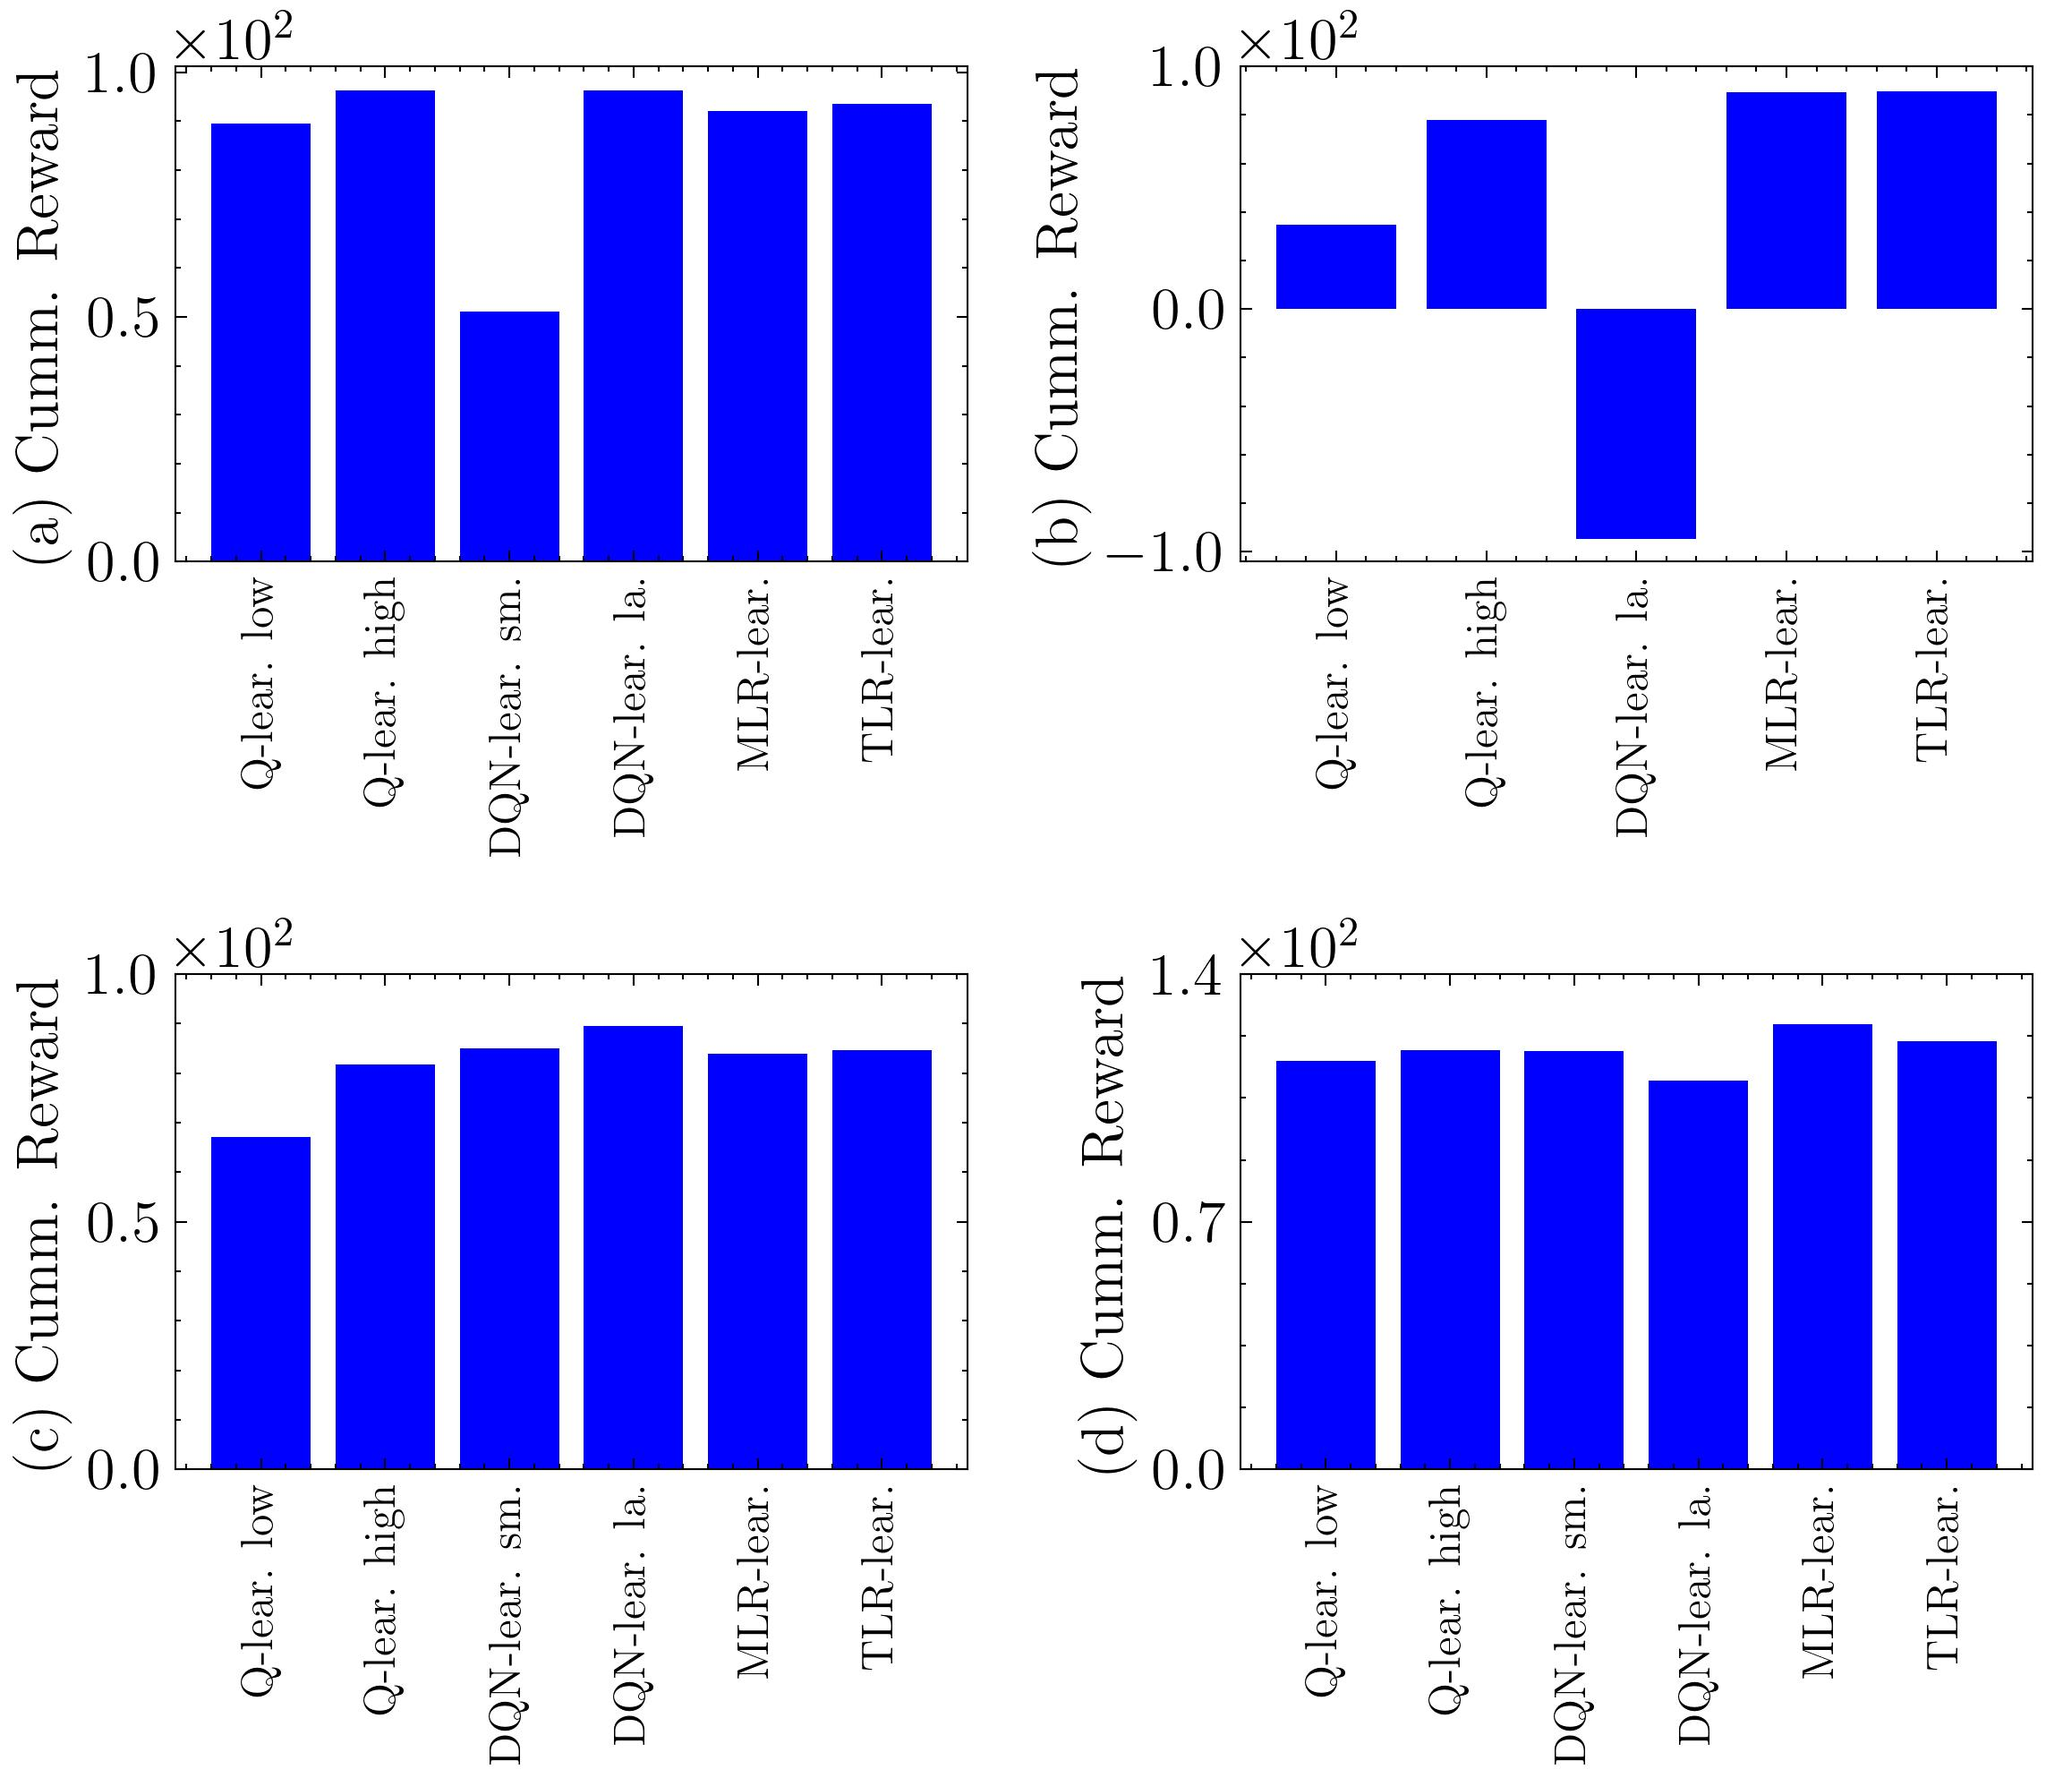
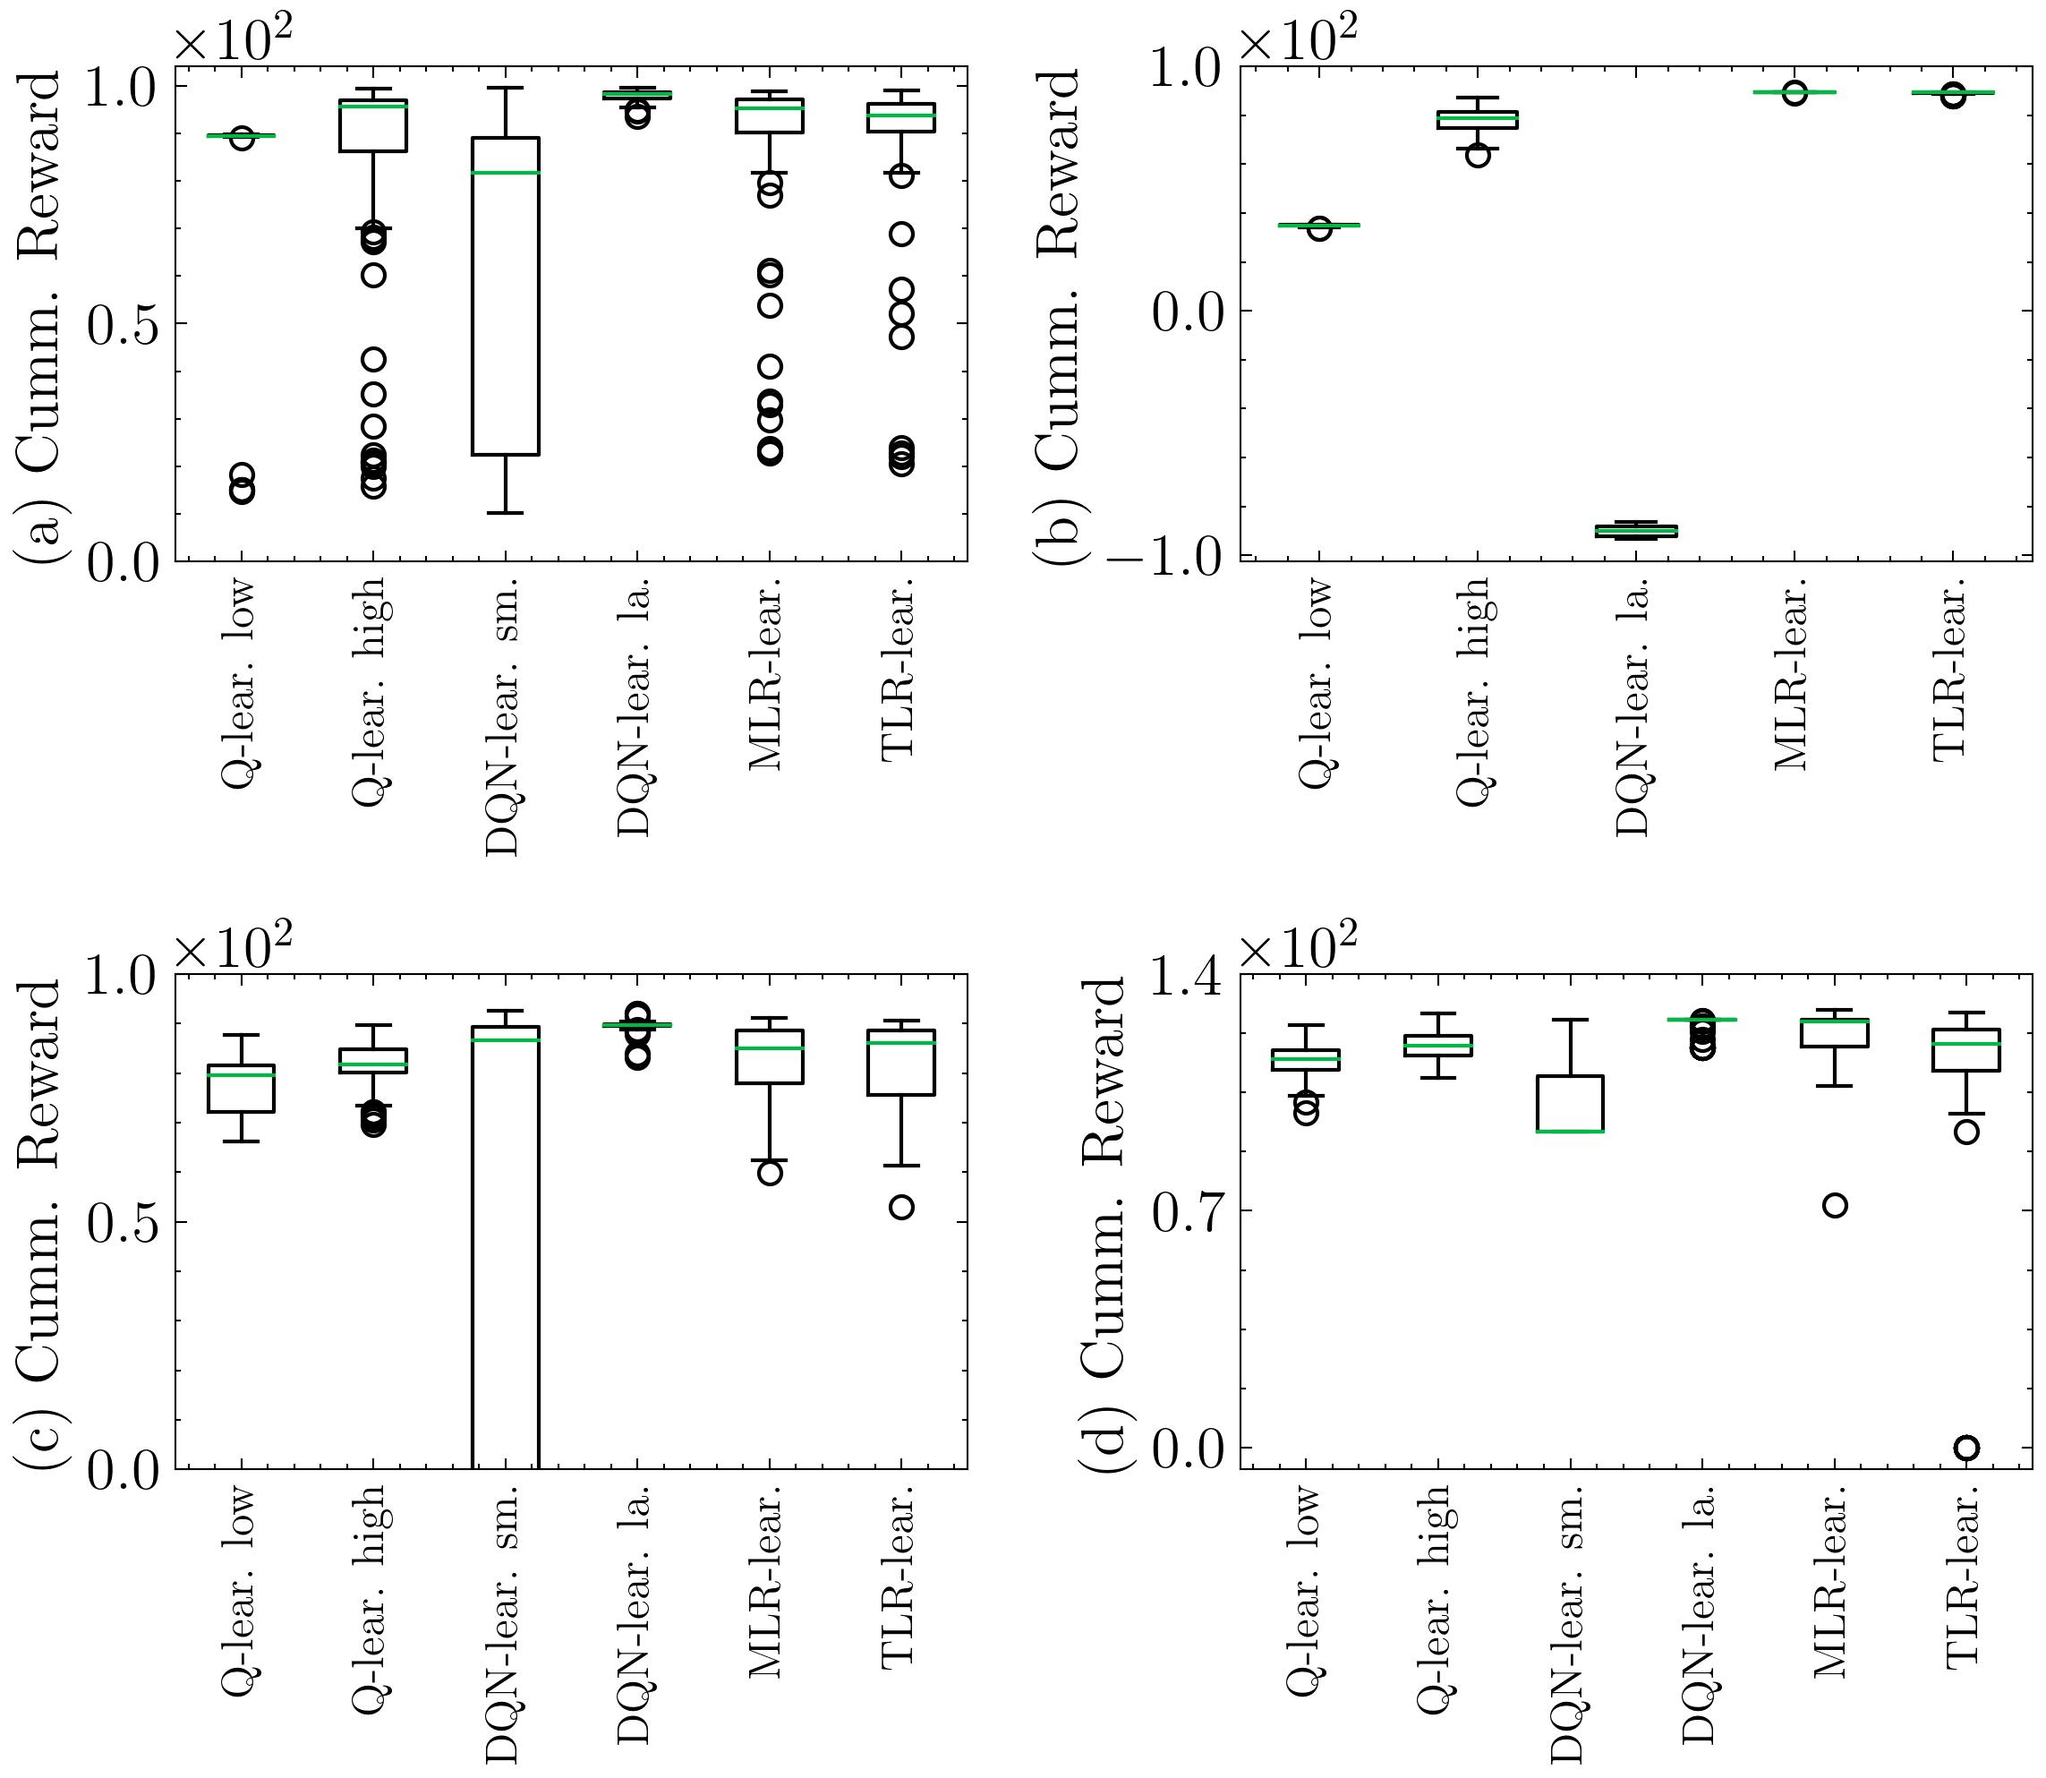
feature: changes in plots

diff --git a/5_exp_methods_comparison.py b/5_exp_methods_comparison.py
@@ -80,49 +80,52 @@ if __name__ == "__main__":
         axes = axes.flatten()
 
         prefix = 'results/pendulum_'
-        axes[0].plot(json.load(open(prefix + 'q_learning_low.json', 'r'))['steps'], color='b')
-        axes[0].plot(json.load(open(prefix + 'q_learning_high.json', 'r'))['steps'], color='r')
-        axes[0].plot(json.load(open(prefix + 'dqn_learning_small_sample.json', 'r'))['steps'], color='orange')
-        axes[0].plot(json.load(open(prefix + 'dqn_learning_large_sample.json', 'r'))['steps'], color='k', )
-        axes[0].plot(json.load(open(prefix + 'mlr_learning.json', 'r'))['steps'], color='g')
-        axes[0].plot(json.load(open(prefix + 'tlr_learning.json', 'r'))['steps'], color='y')
+        steps = range(0, 15000, 10)
+        axes[0].plot(steps, json.load(open(prefix + 'q_learning_low.json', 'r'))['steps'], color='b')
+        axes[0].plot(steps, json.load(open(prefix + 'q_learning_high.json', 'r'))['steps'], color='r')
+        axes[0].plot(steps, json.load(open(prefix + 'dqn_learning_small_sample.json', 'r'))['steps'], color='orange')
+        axes[0].plot(steps, json.load(open(prefix + 'dqn_learning_large_sample.json', 'r'))['steps'], color='k', )
+        axes[0].plot(steps, json.load(open(prefix + 'mlr_learning.json', 'r'))['steps'], color='g')
+        axes[0].plot(steps, json.load(open(prefix + 'tlr_learning.json', 'r'))['steps'], color='y')
         axes[0].set_xlabel("Episodes", labelpad=4)
         axes[0].set_ylabel("(a) $\#$ Steps")
-        axes[0].set_xlim(0, 10000)
+        axes[0].set_xlim(0, 15000)
         axes[0].set_yticks([0, 50, 100])
-        axes[0].set_xticks([0, 5000, 10000])
+        axes[0].set_xticks([0, 7500, 15000])
         axes[0].yaxis.set_major_formatter(OOMFormatter(2, "%1.1f"))
         axes[0].ticklabel_format(style = 'sci', axis='y', scilimits=(0,0))
         axes[0].legend(labels, fontsize=12, loc='upper right')
         axes[0].grid()
 
         prefix = 'results/cartpole_'
-        axes[1].plot(json.load(open(prefix + 'q_learning_low.json', 'r'))['steps'], color='b')
-        axes[1].plot(json.load(open(prefix + 'q_learning_high.json', 'r'))['steps'], color='r')
-        axes[1].plot(json.load(open(prefix + 'dqn_learning_large_sample.json', 'r'))['steps'], color='k')
-        axes[1].plot(json.load(open(prefix + 'mlr_learning.json', 'r'))['steps'], color='g')
-        axes[1].plot(json.load(open(prefix + 'tlr_learning.json', 'r'))['steps'], color='y')
+        steps = range(0, 40000, 10)
+        axes[1].plot(steps, json.load(open(prefix + 'q_learning_low.json', 'r'))['steps'], color='b')
+        axes[1].plot(steps, json.load(open(prefix + 'q_learning_high.json', 'r'))['steps'], color='r')
+        axes[1].plot(steps, json.load(open(prefix + 'dqn_learning_large_sample.json', 'r'))['steps'], color='k')
+        axes[1].plot(steps, json.load(open(prefix + 'mlr_learning.json', 'r'))['steps'], color='g')
+        axes[1].plot(steps, json.load(open(prefix + 'tlr_learning.json', 'r'))['steps'], color='y')
         axes[1].set_xlabel("Episodes", labelpad=4)
         axes[1].set_ylabel("(b) $\#$ Steps")
         axes[1].set_yticks([0, 50, 100])
         axes[1].set_xticks([0, 20000, 40000])
         axes[1].yaxis.set_major_formatter(OOMFormatter(2, "%1.1f"))
         axes[1].ticklabel_format(style = 'sci', axis='y', scilimits=(0,0))
-        axes[1].set_xlim(0, 40000)
+        axes[1].set_xlim(4000, 40000)
         axes[1].legend([l for l in labels if 'sm.' not in l], fontsize=12, loc='lower right')
         axes[1].grid()
 
         prefix = 'results/mountaincar_'
-        axes[2].plot(json.load(open(prefix + 'q_learning_low.json', 'r'))['steps'], color='b')
-        axes[2].plot(json.load(open(prefix + 'q_learning_high.json', 'r'))['steps'], color='r')
-        axes[2].plot(json.load(open(prefix + 'dqn_learning_small_sample.json', 'r'))['steps'], color='orange')
-        axes[2].plot(json.load(open(prefix + 'dqn_learning_large_sample.json', 'r'))['steps'], color='k')
-        axes[2].plot(json.load(open(prefix + 'mlr_learning.json', 'r'))['steps'], color='g')
-        axes[2].plot(json.load(open(prefix + 'tlr_learning.json', 'r'))['steps'], color='y')
+        steps = range(0, 5000, 10)
+        axes[2].plot(steps, json.load(open(prefix + 'q_learning_low.json', 'r'))['steps'], color='b')
+        axes[2].plot(steps, json.load(open(prefix + 'q_learning_high.json', 'r'))['steps'], color='r')
+        axes[2].plot(steps, json.load(open(prefix + 'dqn_learning_small_sample.json', 'r'))['steps'], color='orange')
+        axes[2].plot(steps, json.load(open(prefix + 'dqn_learning_large_sample.json', 'r'))['steps'], color='k')
+        axes[2].plot(steps, json.load(open(prefix + 'mlr_learning.json', 'r'))['steps'], color='g')
+        axes[2].plot(steps, json.load(open(prefix + 'tlr_learning.json', 'r'))['steps'], color='y')
         axes[2].set_xlabel("Episodes", labelpad=4)
         axes[2].set_ylabel("(c) $\#$ Steps")
         axes[2].set_yticks([0, 5000, 10000])
-        axes[2].set_xticks([0, 2500, 5000])
+        axes[2].set_xticks([2500, 5000])
         axes[2].yaxis.set_major_formatter(OOMFormatter(4, "%1.1f"))
         axes[2].ticklabel_format(style = 'sci', axis='y', scilimits=(0,0))
         axes[2].set_xlim(0, 5000)
@@ -130,19 +133,19 @@ if __name__ == "__main__":
         axes[2].grid()
 
         prefix = 'results/rocket_'
-        axes[3].plot(json.load(open(prefix + 'q_learning_low.json', 'r'))['steps'], color='b')
-        axes[3].plot(json.load(open(prefix + 'q_learning_high.json', 'r'))['steps'], color='r')
-        axes[3].plot(json.load(open(prefix + 'dqn_learning_small_sample.json', 'r'))['steps'], color='orange')
-        axes[3].plot(json.load(open(prefix + 'dqn_learning_large_sample.json', 'r'))['steps'], color='k')
-        axes[3].plot(json.load(open(prefix + 'mlr_learning.json', 'r'))['steps'], color='g')
-        axes[3].plot(json.load(open(prefix + 'tlr_learning.json', 'r'))['steps'], color='y')
+        steps = range(0, 1000000, 10)
+        axes[3].plot(steps, json.load(open(prefix + 'q_learning_low.json', 'r'))['steps'], color='b')
+        axes[3].plot(steps, json.load(open(prefix + 'q_learning_high.json', 'r'))['steps'], color='r')
+        axes[3].plot(steps, json.load(open(prefix + 'dqn_learning_small_sample.json', 'r'))['steps'], color='orange')
+        axes[3].plot(steps, json.load(open(prefix + 'dqn_learning_large_sample.json', 'r'))['steps'], color='k')
+        axes[3].plot(steps, json.load(open(prefix + 'mlr_learning.json', 'r'))['steps'], color='g')
+        axes[3].plot(steps, json.load(open(prefix + 'tlr_learning.json', 'r'))['steps'], color='y')
         axes[3].set_xlabel("Episodes", labelpad=4)
         axes[3].set_ylabel("(d) $\#$ Steps")
-        axes[3].set_yticks([200, 350, 500])
+        axes[3].set_yticks([0, 500, 1000])
         axes[3].set_xticks([0, 250000, 500000])
-        axes[3].yaxis.set_major_formatter(OOMFormatter(2, "%1.1f"))
+        axes[3].yaxis.set_major_formatter(OOMFormatter(3, "%1.1f"))
         axes[3].ticklabel_format(style = 'sci', axis='y', scilimits=(0,0))
-        axes[3].set_ylim(180, 520)
         axes[3].set_xlim(0, 500000)
         axes[3].legend(labels, fontsize=12)
         axes[3].grid()
@@ -166,7 +169,7 @@ if __name__ == "__main__":
             json.load(open(prefix + 'mlr_learning.json', 'r'))['rewards'],
             json.load(open(prefix + 'tlr_learning.json', 'r'))['rewards'],
         ]
-        axes[0].boxplot(labels, rewards, color='b')
+        axes[0].boxplot(rewards)
         axes[0].set_ylabel("(a) Cumm. Reward")
         axes[0].set_xticklabels(labels, rotation = 90, size=12)
         axes[0].set_yticks([0, 50, 100])
@@ -181,7 +184,7 @@ if __name__ == "__main__":
             json.load(open(prefix + 'mlr_learning.json', 'r'))['rewards'],
             json.load(open(prefix + 'tlr_learning.json', 'r'))['rewards'],
         ]
-        axes[1].boxplot([l for l in labels if 'sm.' not in l], rewards, color='b')
+        axes[1].boxplot(rewards)
         axes[1].set_ylabel("(b) Cumm. Reward")
         axes[1].set_xticklabels([l for l in labels if 'sm.' not in l], rotation = 90, size=12)
         axes[1].set_yticks([-100, 0, 100])
@@ -197,10 +200,11 @@ if __name__ == "__main__":
             json.load(open(prefix + 'mlr_learning.json', 'r'))['rewards'],
             json.load(open(prefix + 'tlr_learning.json', 'r'))['rewards'],
         ]
-        axes[2].boxplot(labels, rewards, color='b')
+        axes[2].boxplot(rewards)
         axes[2].set_ylabel("(c) Cumm. Reward")
         axes[2].set_xticklabels(labels, rotation = 90, size=12)
         axes[2].set_yticks([0, 50, 100])
+        axes[2].set_ylim(0, 100)
         axes[2].yaxis.set_major_formatter(OOMFormatter(2, "%1.1f"))
         axes[2].ticklabel_format(style = 'sci', axis='y', scilimits=(0,0))
 
@@ -213,7 +217,7 @@ if __name__ == "__main__":
             json.load(open(prefix + 'mlr_learning.json', 'r'))['rewards'],
             json.load(open(prefix + 'tlr_learning.json', 'r'))['rewards'],
         ]
-        axes[3].boxplot(labels, rewards, color='b')
+        axes[3].boxplot(rewards)
         axes[3].set_ylabel("(d) Cumm. Reward")
         axes[3].set_xticklabels(labels, rotation = 90, size=12)
         axes[3].set_yticks([0, 70, 140])
